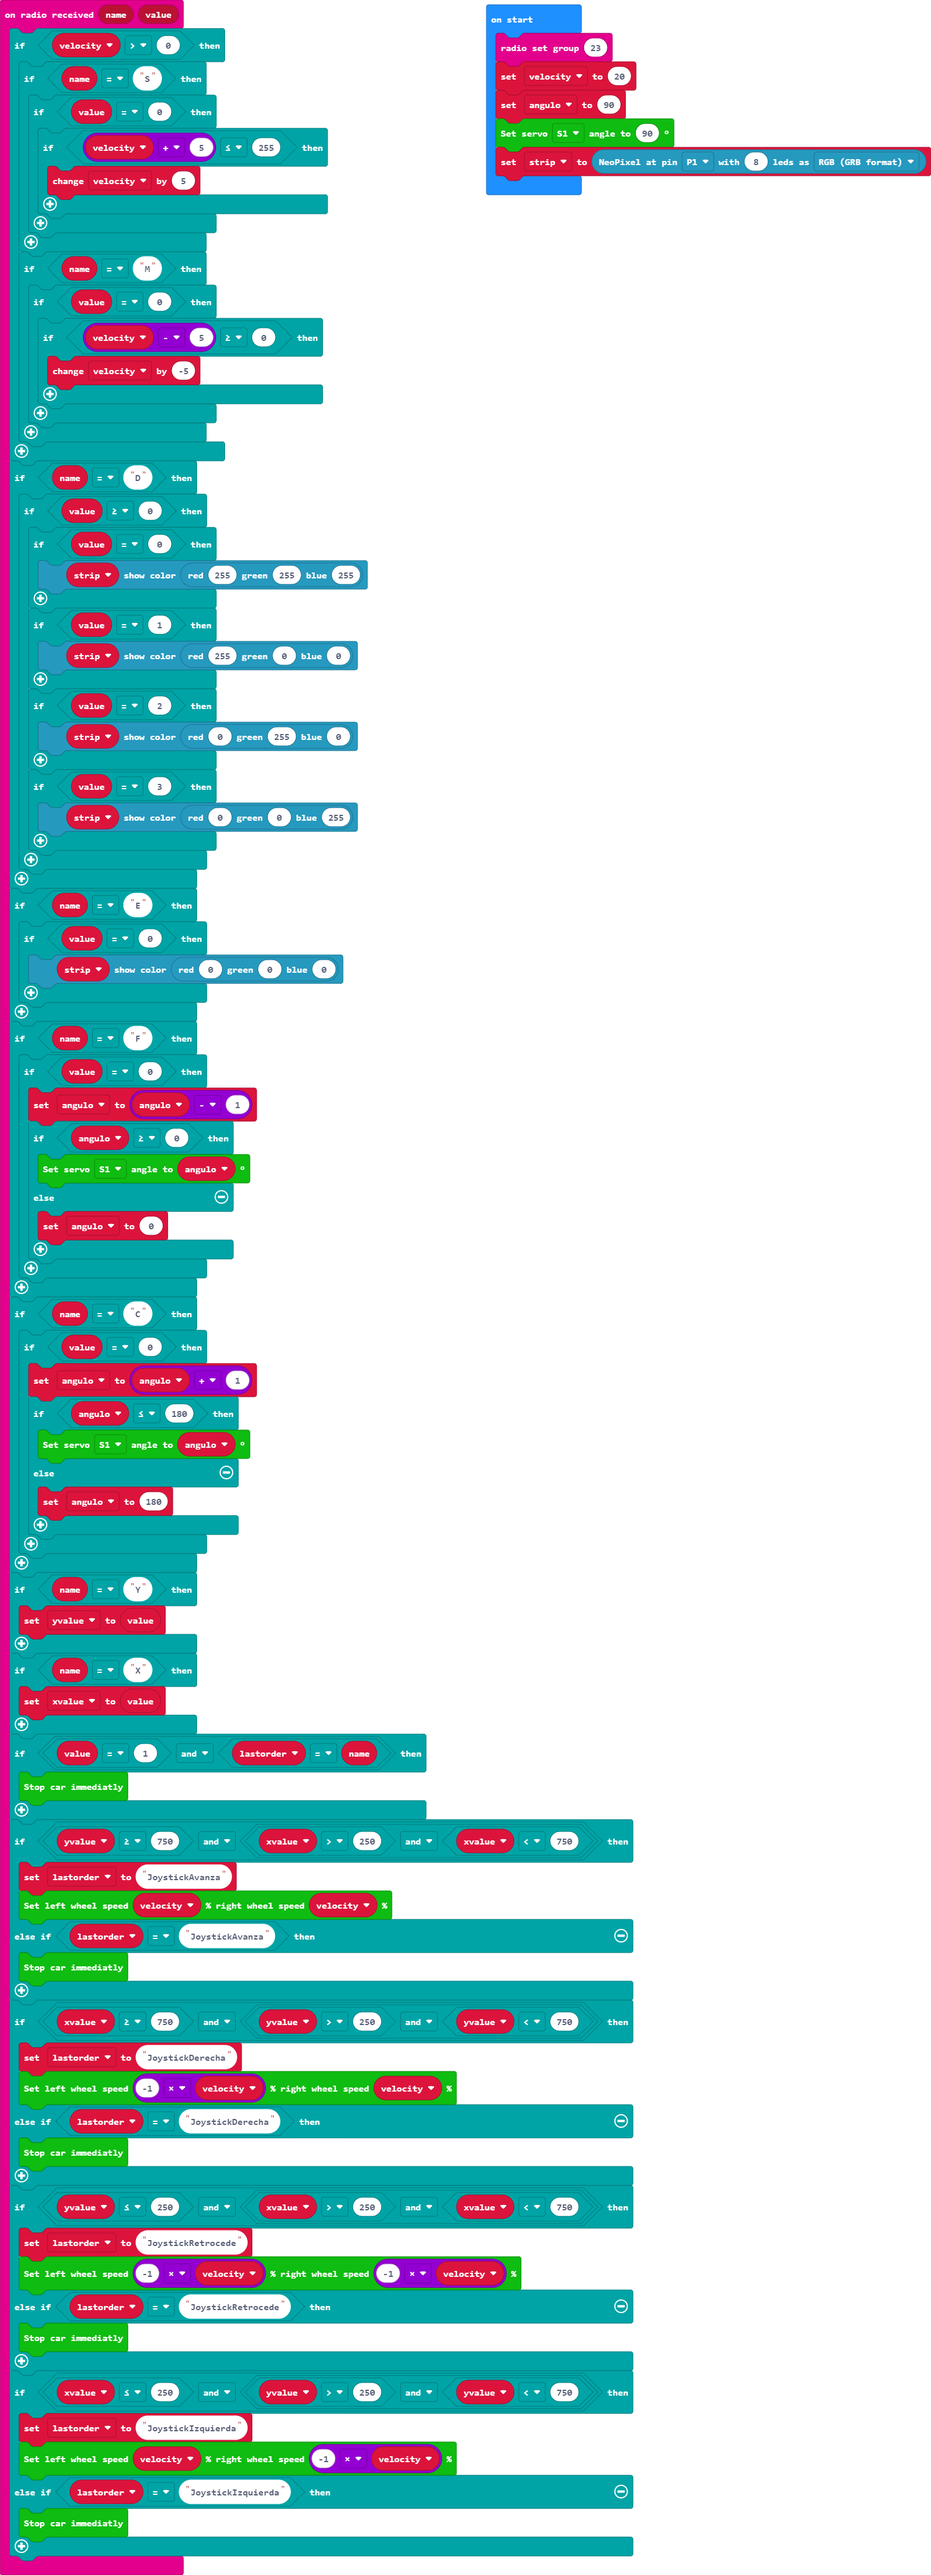
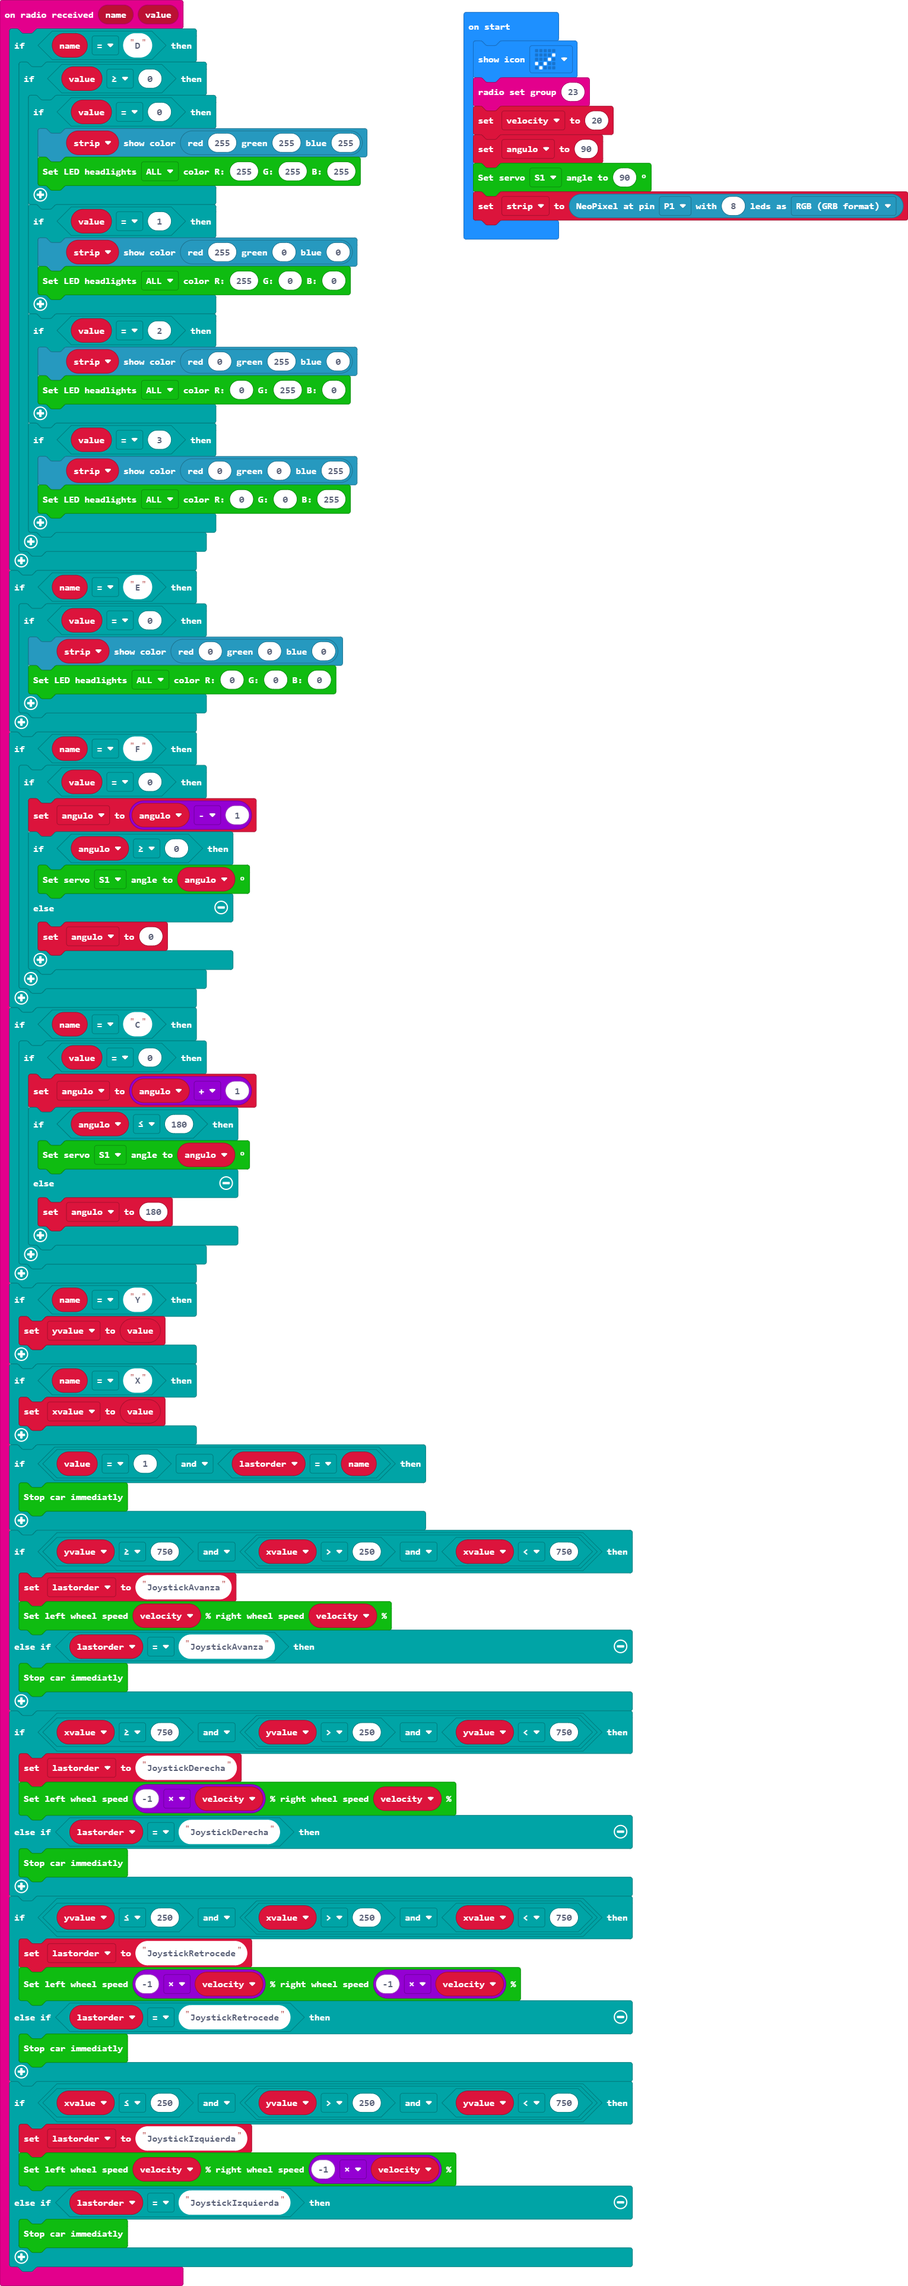
Update main.blocks, main.ts

Changed region(s): [[0.0, 0.0, 0.7065, 1.0], [0.4915, 0.0, 1.0, 0.1247]]

diff --git a/main.ts b/main.ts
@@ -1,39 +1,28 @@
 radio.onReceivedValue(function (name, value) {
-    if (velocity > 0) {
-        if (name == "S") {
-            if (value == 0) {
-                if (velocity + 5 <= 255) {
-                    velocity += 5
-                }
-            }
-        }
-        if (name == "M") {
-            if (value == 0) {
-                if (velocity - 5 >= 0) {
-                    velocity += -5
-                }
-            }
-        }
-    }
     if (name == "D") {
         if (value >= 0) {
             if (value == 0) {
                 strip.showColor(neopixel.rgb(255, 255, 255))
+                cuteBot.singleheadlights(cuteBot.RGBLights.ALL, 255, 255, 255)
             }
             if (value == 1) {
                 strip.showColor(neopixel.rgb(255, 0, 0))
+                cuteBot.singleheadlights(cuteBot.RGBLights.ALL, 255, 0, 0)
             }
             if (value == 2) {
                 strip.showColor(neopixel.rgb(0, 255, 0))
+                cuteBot.singleheadlights(cuteBot.RGBLights.ALL, 0, 255, 0)
             }
             if (value == 3) {
                 strip.showColor(neopixel.rgb(0, 0, 255))
+                cuteBot.singleheadlights(cuteBot.RGBLights.ALL, 0, 0, 255)
             }
         }
     }
     if (name == "E") {
         if (value == 0) {
             strip.showColor(neopixel.rgb(0, 0, 0))
+            cuteBot.singleheadlights(cuteBot.RGBLights.ALL, 0, 0, 0)
         }
     }
     if (name == "F") {
@@ -96,6 +85,7 @@ let yvalue = 0
 let strip: neopixel.Strip = null
 let angulo = 0
 let velocity = 0
+basic.showIcon(IconNames.Yes)
 radio.setGroup(23)
 velocity = 20
 angulo = 90
